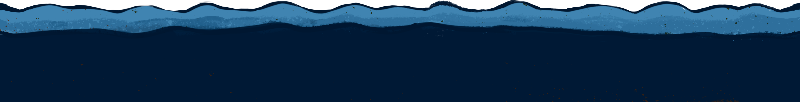
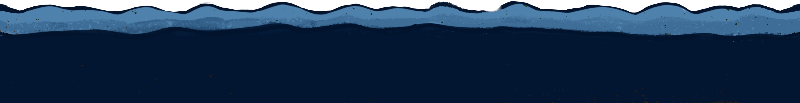
add graphics for easy

diff --git a/core/src/se/yrgo/screens/GameScreen.java b/core/src/se/yrgo/screens/GameScreen.java
@@ -87,7 +87,7 @@ public class GameScreen implements Screen {
         game.batch.draw(Settings.BACKGROUND, camera.position.x - (camera.viewportWidth / 2), 0, JumpyBirb.WIDTH, JumpyBirb.HEIGHT);
 
         for (MidGround midGround : midGrounds) {
-            game.batch.draw(midGround.getGround(), midGround.getPosition().x, midGround.getPosition().y);
+            game.batch.draw(midGround.getGround(), midGround.getPosition().x, midGround.getPosition().y - 20);
         }
         for (Tube tubes : tubes) {
             game.batch.draw(tubes.getTopTube(), tubes.getPosTopTube().x, tubes.getPosTopTube().y);
@@ -100,7 +100,7 @@ public class GameScreen implements Screen {
         game.batch.draw(hero.getHeroAnimation(), hero.getPosition().x, hero.getPosition().y);
 
         for (ForGround forGround : forGrounds) {
-            game.batch.draw(forGround.getGround(), forGround.getPosition().x, forGround.getPosition().y);
+            game.batch.draw(forGround.getGround(), forGround.getPosition().x, forGround.getPosition().y + 40);
         }
         game.font.draw(game.batch, glyphLayout, camera.position.x + (JumpyBirb.WIDTH/2F - glyphLayout.width), JumpyBirb.HEIGHT);
 

diff --git a/core/src/se/yrgo/util/Settings.java b/core/src/se/yrgo/util/Settings.java
@@ -24,14 +24,14 @@ public final class Settings {
         HERO_FORWARD_MOVEMENT = 200;
         TUBE_SPACING = 200;
         TUBE_FLUCTUATION = 250;
-        TUBE_GAP = 250;
-        TUBE_LOWEST_OPENING = 120;
-        BACKGROUND = new Texture("bg-pink.png");
-        FOREGROUND = new Texture("fg.png");
-        TOPTUBE = new Texture("toptube.png");
-        BOTTOMTUBE = new Texture("bottomtube.png");
+        TUBE_GAP = 230;
+        TUBE_LOWEST_OPENING = 130;
+        BACKGROUND = new Texture("easy/bg.png");
+        FOREGROUND = new Texture("easy/fg.png");
+        TOPTUBE = new Texture("easy/Top-smallcarrot.png");
+        BOTTOMTUBE = new Texture("easy/Bottom-smallcarrot.png");
         GROUND = new Texture("ground.png");
-        MIDGROUND = new Texture("mg.png");
+        MIDGROUND = new Texture("easy/mg.png");
     }
 
     public static void medium() {
